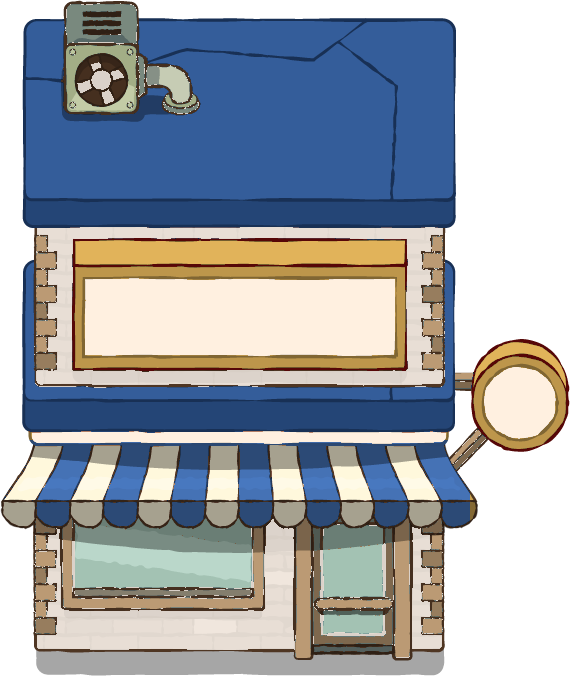
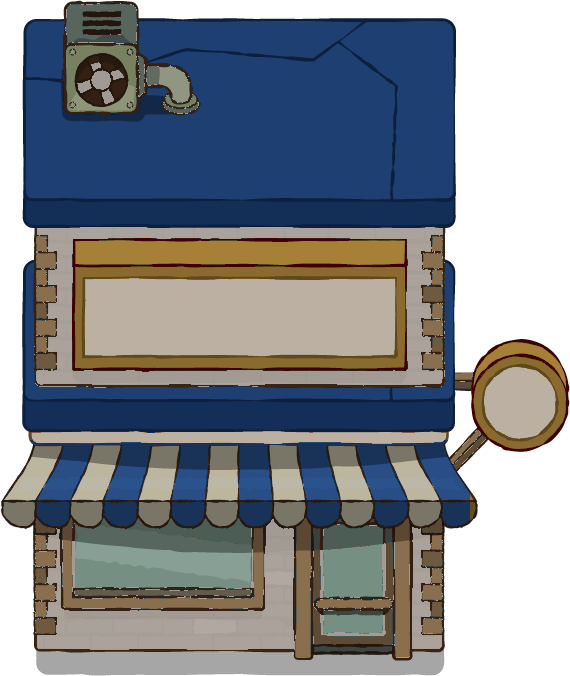
Laden dunkler, Wachtuerme mit Hausblau als Dach und dunkler

diff --git a/DECISIONS.md b/DECISIONS.md
@@ -454,4 +454,5 @@
 - Laden auf die Farben des Wohnhauses umgefärbt (blaues Dach und Markise, heller Putz, Ocker-/Holzrahmen, braune Konturen). Erzeugt per Skript aus building_04, Ergebnis liegt als Resources/Buildings/laden.png.
 - Knopf sitzt jetzt im oberen Teil des Gebäudes (nicht in der Mitte, wo man klickt), darüber Name/Stufe und ein Fortschrittsbalken bis zur nächsten Stufe.
 - Testknopf „Alle Gebäude gratis“ (oben rechts unter „Endlevel-Hof“): schaltet einen Gratis-Modus an/aus (nicht gespeichert) und öffnet den Reiter „Bauwerke“ – dort sind alle Bauwerke sichtbar und kosten nichts.
+- Nachtrag 2: Laden insgesamt dunkler und satter (Faktor 0,74 auf die Helligkeit), Wachtürme mit dem Hausblau als Dach (auch die Rostflecken dunkelblau) und etwas dunkler (×0,78); der Steinturm mittelgrau statt hellgrau. Die Skripte zum Umfärben liegen nicht im Repo, die Ergebnisse als PNG in Resources/Buildings.
 
